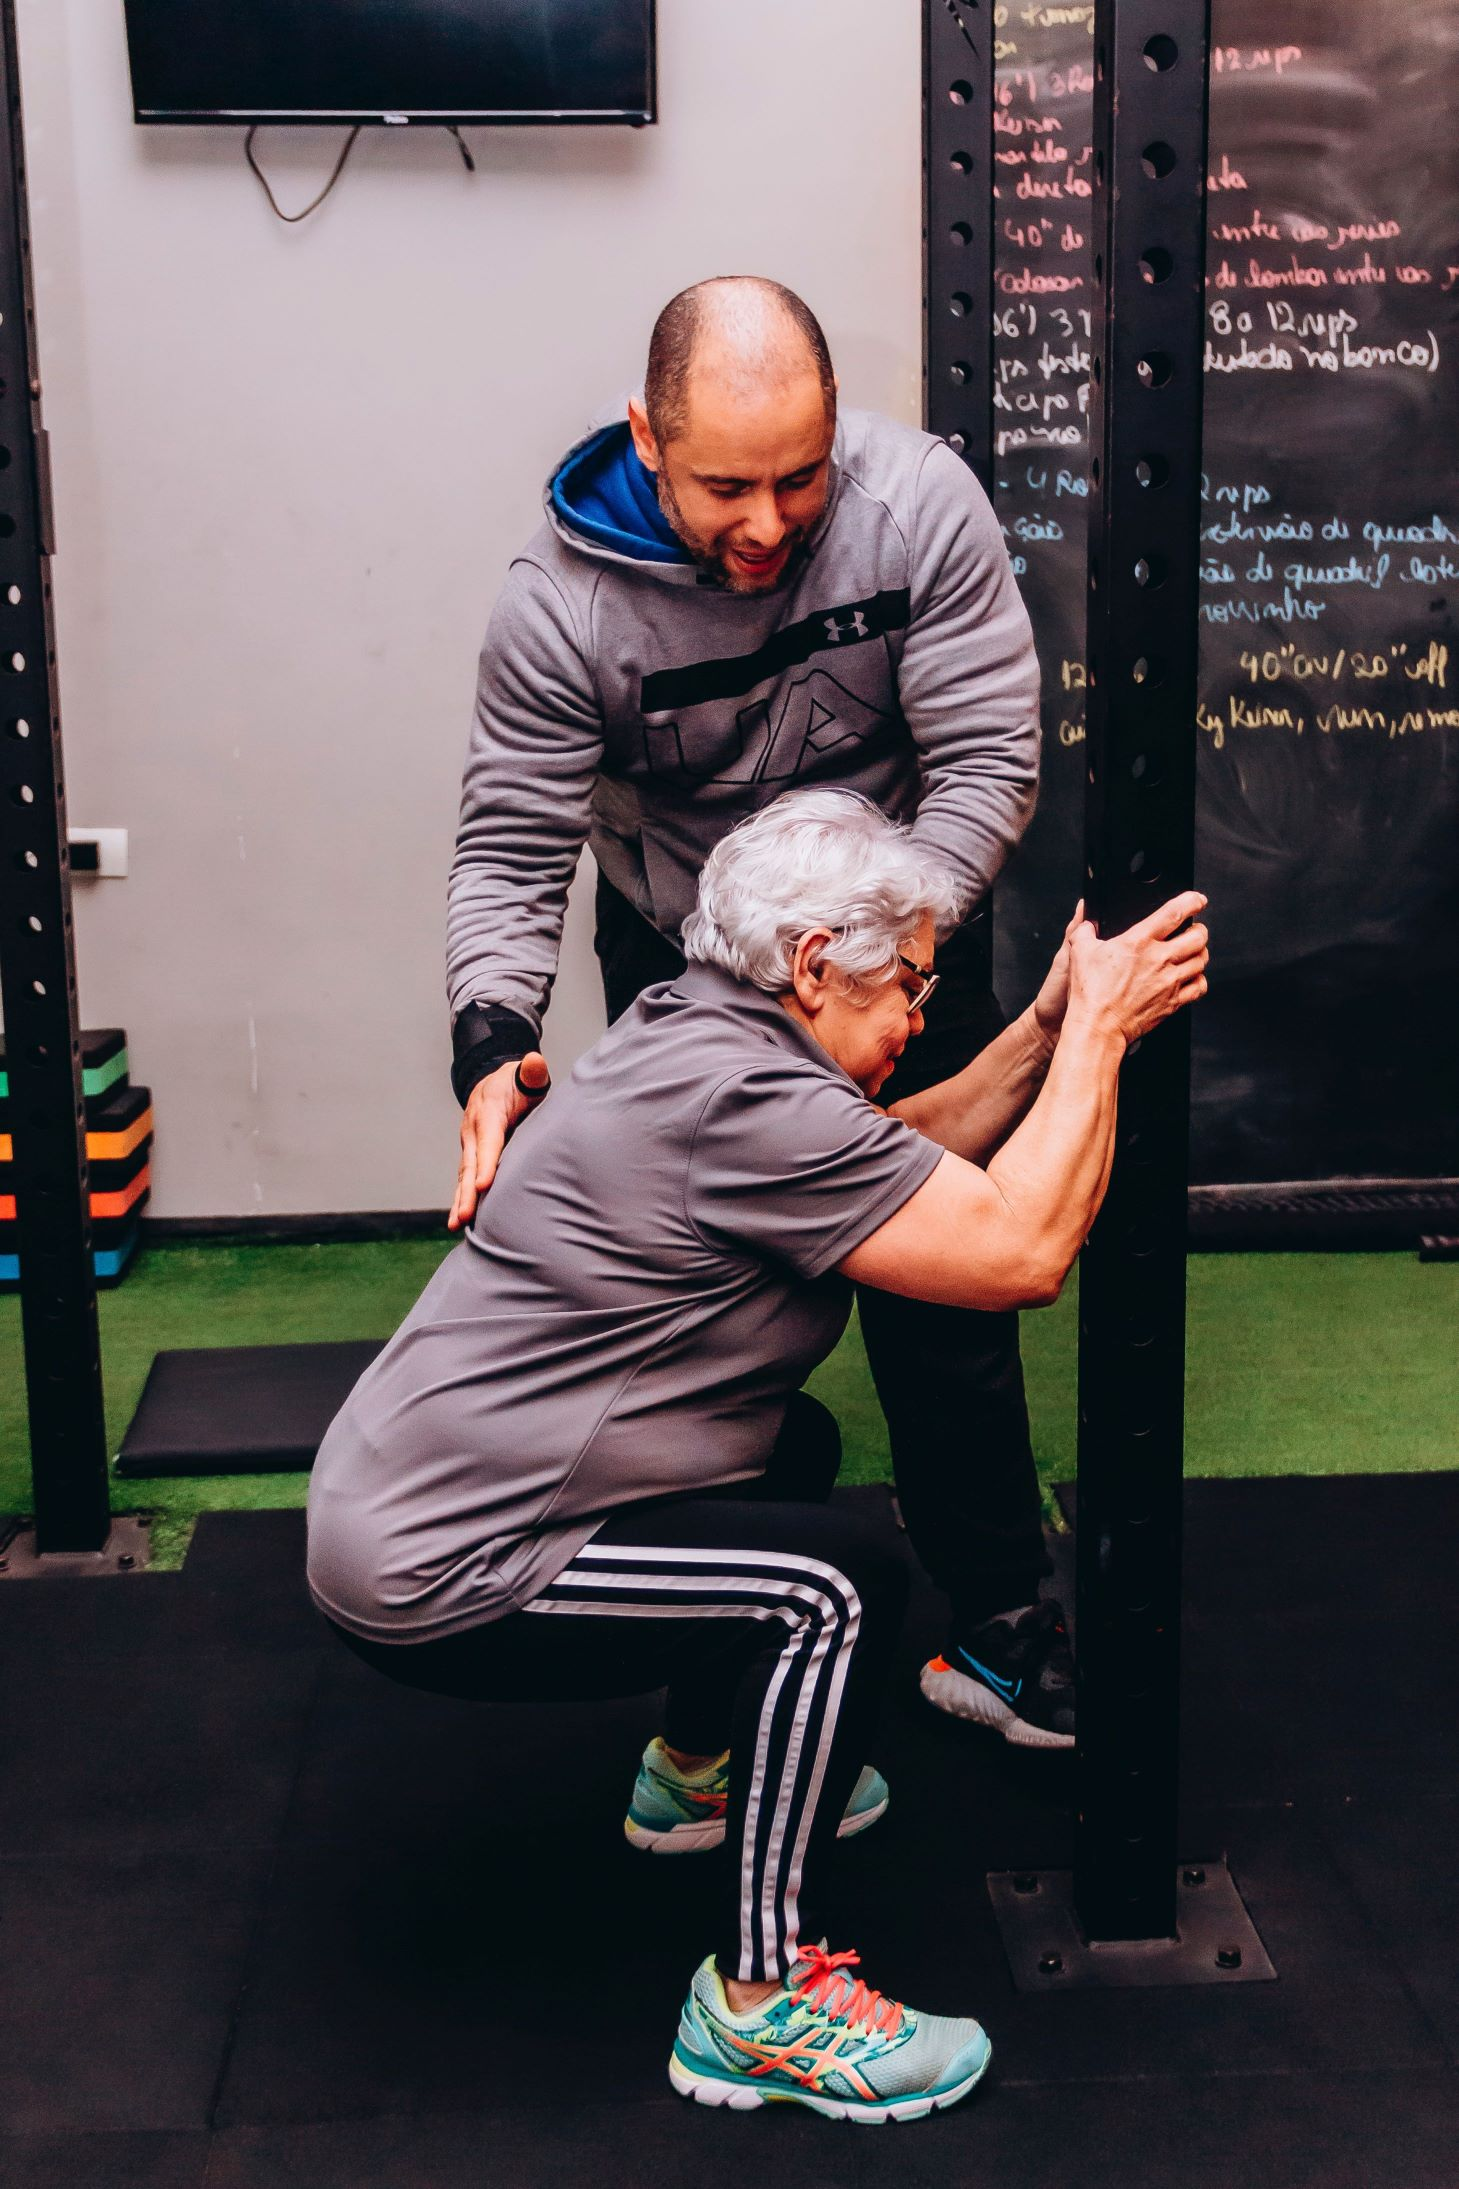
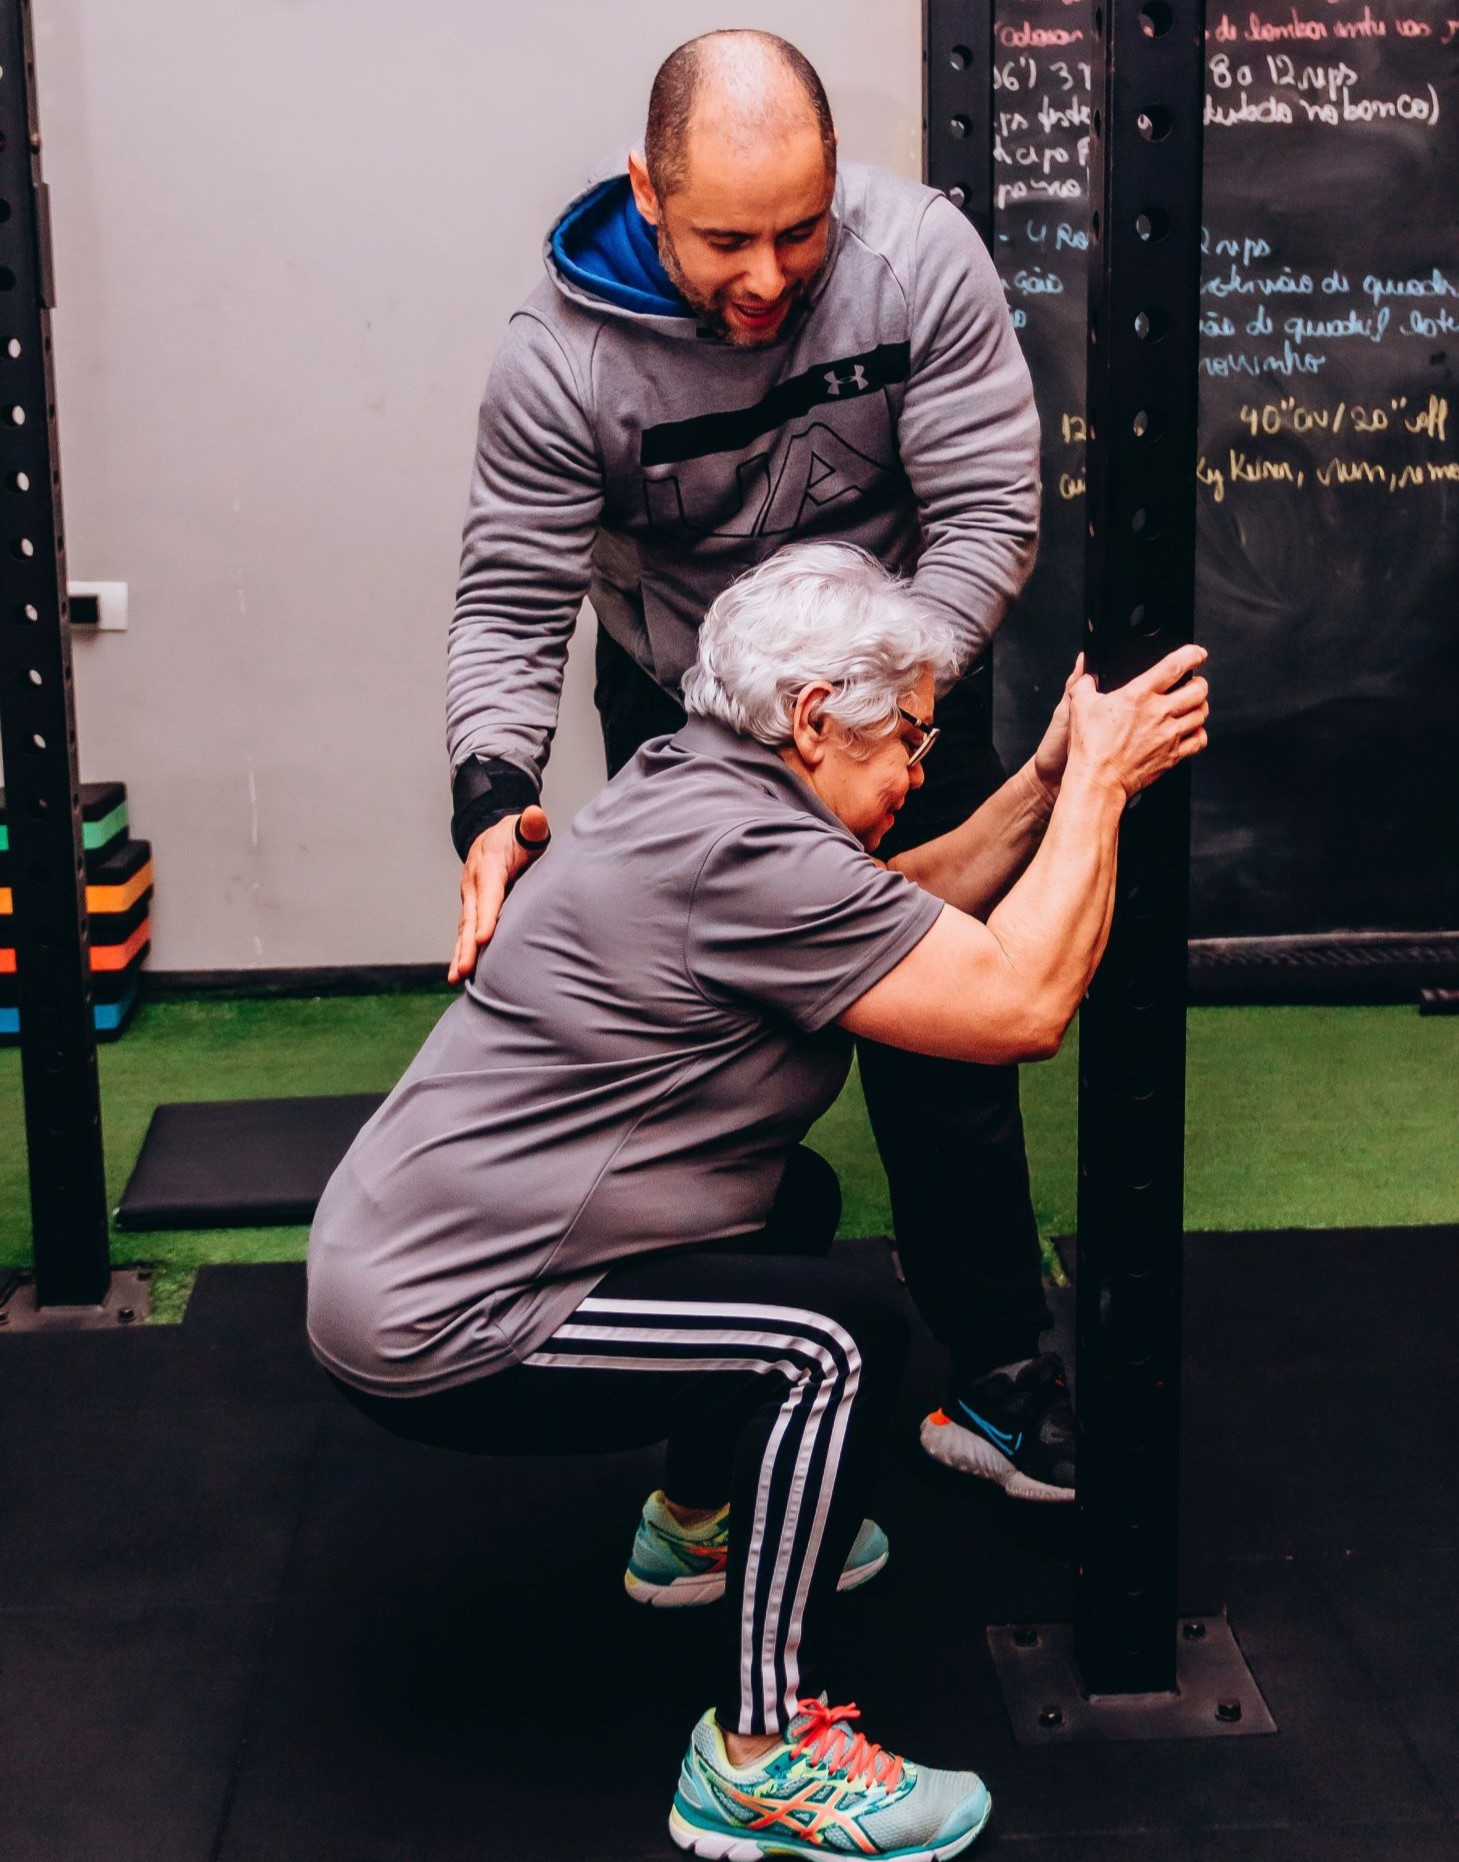
register and login page images resize proportionally - login page still doesn't like tablet size

diff --git a/client/src/pages/Login.js b/client/src/pages/Login.js
@@ -66,21 +66,19 @@ const Login = (props) => {
       <MDBCard>
         <MDBRow className='g-0'>
 
-          <MDBCol>
-            <MDBCardImage src= {pt2} style={{width: ''}}/>
+          <MDBCol md='6'>
+            <MDBCardImage src= {pt2}/>
           </MDBCol>
 
           <MDBCol md='6'>
             <MDBCardBody className='d-flex flex-column'>
 
             <div className='d-flex flex-row mt-2 justify-content-center'>
-              <div className= ''>
                 {/* <MDBIcon fas icon="cubes fa-3x me-3" style={{ color: '#ff6219' }} /> */}
                 < img src={Logo} alt="logo" className="logo"
                   style={{ cursor: "pointer" }}
                   // onClick={() => navigate('/')}
                 />
-                </div>
               </div>
 
               <h5 className="fw-normal my-4 pb-3" style={{letterSpacing: '1px'}}>Sign into your account</h5>

diff --git a/client/src/pages/Register.js b/client/src/pages/Register.js
@@ -60,7 +60,7 @@ const Register = () => {
         <MDBRow className='g-0'>
 
           <MDBCol md='6'>
-            <MDBCardImage src={pt1} width="200" height="200" />
+            <MDBCardImage src={pt1}/>
           </MDBCol>
 
           <MDBCol md='6'>
